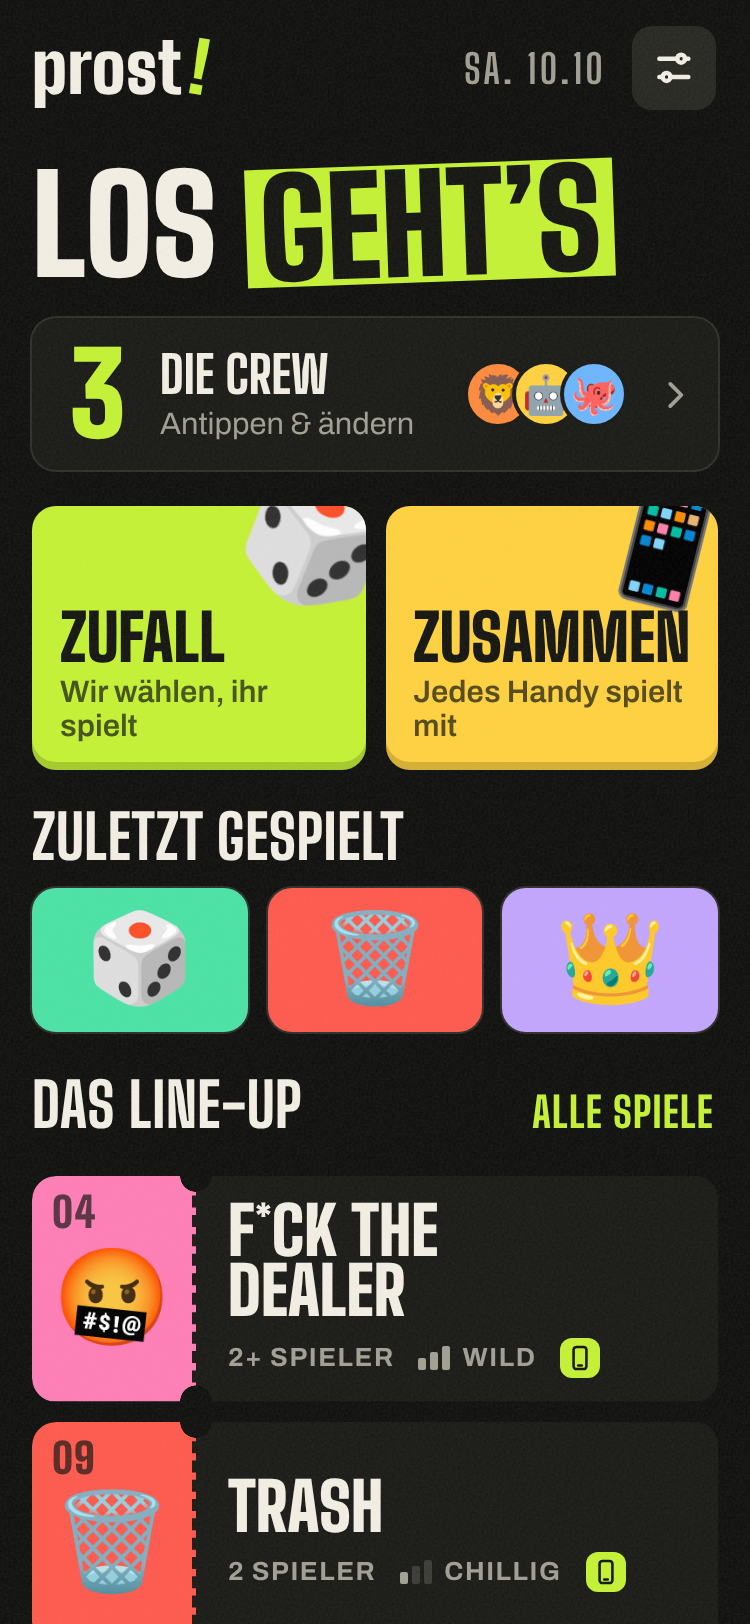
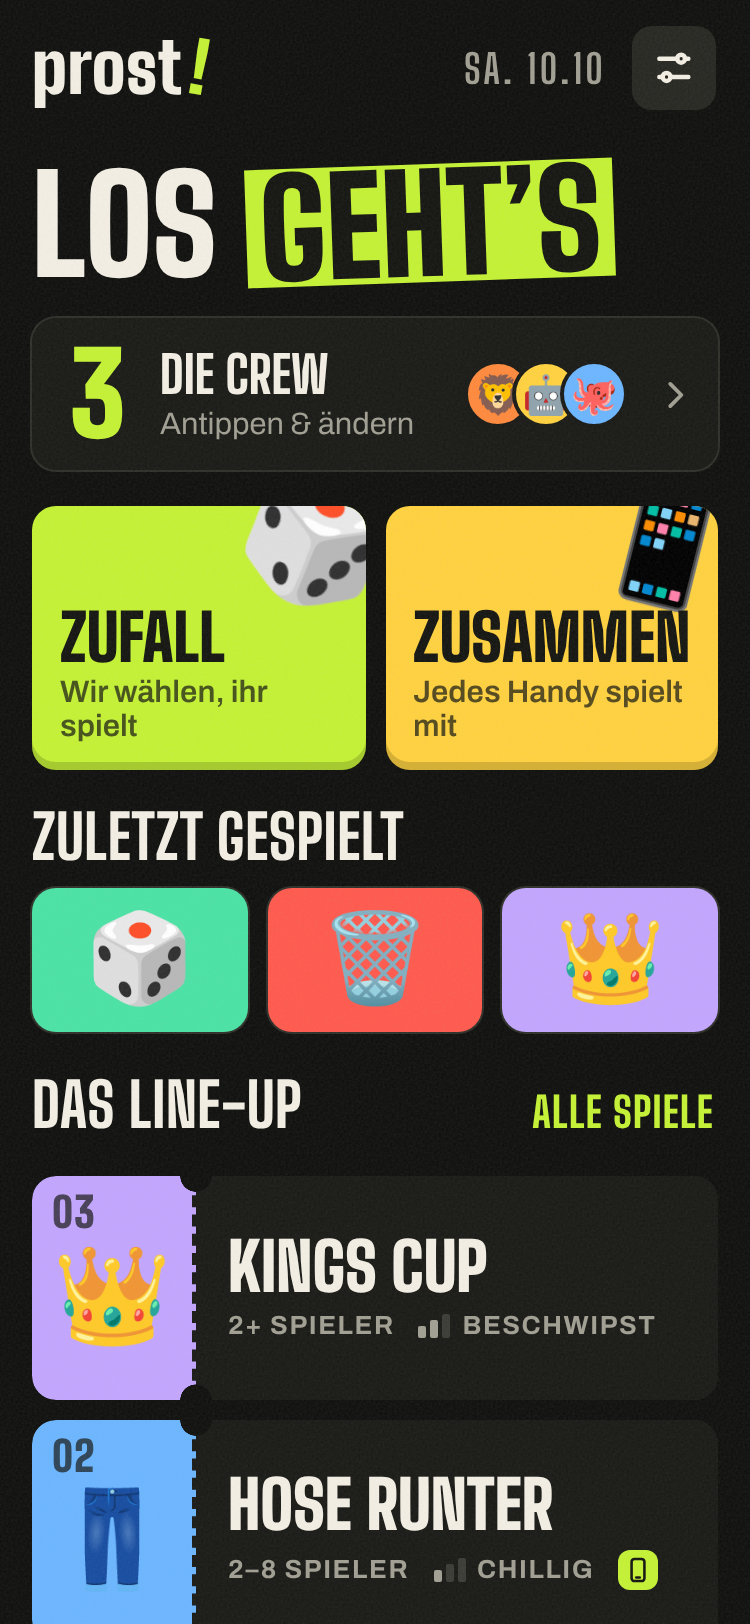
Home: pull down to deal a new line-up, with the name hopping in lime while it refreshes
Only on the home screen, only from the very top and only for a mostly downward pull.

Claude-Session: https://claude.ai/code/session_012V2LcTTs5UNWAkt63McFeS

Changed region(s): [[0.0307, 0.7081, 0.276, 1.0], [0.3067, 0.7389, 0.8587, 0.8621], [0.3067, 0.8929, 0.8893, 0.9852]]

diff --git a/src/lib/pullToRefresh.ts b/src/lib/pullToRefresh.ts
@@ -1,0 +1,103 @@
+import { useEffect, useRef, useState } from 'react';
+import { buzz } from './fx';
+
+/** How far the page follows the finger, at most. */
+const MAX = 100;
+/** Pulled at least this far: let go to refresh. */
+const TRIGGER = 62;
+/** How far it stays down while refreshing. */
+const HOLD = 52;
+/** How long the refresh shows (the work runs halfway through). */
+const REFRESH_MS = 900;
+
+export type PullPhase = 'idle' | 'pull' | 'refresh';
+
+/**
+ * Pull down at the top of the page to refresh. Only follows a finger that starts with the page at
+ * the very top and moves mostly downwards (a sideways swipe is left to the phone).
+ */
+export function usePullToRefresh(onRefresh: () => void, enabled = true) {
+  const [offset, setOffset] = useState(0);
+  const [phase, setPhase] = useState<PullPhase>('idle');
+  const refresh = useRef(onRefresh);
+  refresh.current = onRefresh;
+
+  useEffect(() => {
+    if (!enabled) return;
+    let start: { x: number; y: number } | null = null;
+    let pulling = false;
+    let off = 0;
+    let busy = false;
+    let armed = false;
+    const timers: number[] = [];
+
+    const down = (e: TouchEvent) => {
+      if (busy || e.touches.length !== 1 || window.scrollY > 0) return;
+      start = { x: e.touches[0].clientX, y: e.touches[0].clientY };
+      pulling = false;
+    };
+    const move = (e: TouchEvent) => {
+      if (!start) return;
+      const dx = e.touches[0].clientX - start.x;
+      const dy = e.touches[0].clientY - start.y;
+      if (!pulling) {
+        if (dy < 8) {
+          if (dy < -4 || Math.abs(dx) > 8) start = null;
+          return;
+        }
+        if (Math.abs(dx) > dy) {
+          start = null;
+          return;
+        }
+        pulling = true;
+        armed = false;
+        setPhase('pull');
+      }
+      // The page itself must not scroll or bounce meanwhile.
+      if (e.cancelable) e.preventDefault();
+      off = Math.min(MAX, Math.max(0, dy - 8) * 0.5);
+      if (off >= TRIGGER !== armed) {
+        armed = off >= TRIGGER;
+        if (armed) buzz(8);
+      }
+      setOffset(off);
+    };
+    const up = () => {
+      if (!start) return;
+      start = null;
+      if (!pulling) return;
+      pulling = false;
+      if (off >= TRIGGER) {
+        busy = true;
+        setPhase('refresh');
+        setOffset(HOLD);
+        timers.push(window.setTimeout(() => refresh.current(), REFRESH_MS / 2));
+        timers.push(
+          window.setTimeout(() => {
+            setPhase('idle');
+            setOffset(0);
+            busy = false;
+          }, REFRESH_MS),
+        );
+      } else {
+        setPhase('idle');
+        setOffset(0);
+      }
+      off = 0;
+    };
+
+    window.addEventListener('touchstart', down, { passive: true });
+    window.addEventListener('touchmove', move, { passive: false });
+    window.addEventListener('touchend', up);
+    window.addEventListener('touchcancel', up);
+    return () => {
+      window.removeEventListener('touchstart', down);
+      window.removeEventListener('touchmove', move);
+      window.removeEventListener('touchend', up);
+      window.removeEventListener('touchcancel', up);
+      timers.forEach((id) => window.clearTimeout(id));
+    };
+  }, [enabled]);
+
+  return { offset, phase, progress: Math.min(1, offset / TRIGGER) };
+}

diff --git a/src/screens/Home.tsx b/src/screens/Home.tsx
@@ -12,6 +12,7 @@ import { headlineFor } from '../lib/headline';
 import { pick } from '../lib/random';
 import { recentGames } from '../lib/recent';
 import { lineup } from '../lib/lineup';
+import { usePullToRefresh } from '../lib/pullToRefresh';
 import { navigate, paths } from '../lib/router';
 import { useRoom } from '../net/RoomProvider';
 import { useApp } from '../state/AppState';
@@ -61,12 +62,23 @@ export default function Home() {
   // The last three games played on this phone, newest first.
   const [recent] = useState(() => recentGames().map(findGame).filter((g): g is GameDefinition => !!g));
 
-  // A few playable games, drawn at random every few hours.
-  const [featured] = useState(() =>
-    lineup(GAMES.filter((g) => g.component || g.online).map((g) => g.id))
+  // A few playable games, drawn at random every few hours, or right away when home is pulled down.
+  const drawLineup = (fresh = false) =>
+    lineup(
+      GAMES.filter((g) => g.component || g.online).map((g) => g.id),
+      undefined,
+      undefined,
+      fresh,
+    )
       .map(findGame)
-      .filter((g): g is GameDefinition => !!g),
-  );
+      .filter((g): g is GameDefinition => !!g);
+  const [featured, setFeatured] = useState(() => drawLineup());
+  const [deal, setDeal] = useState(0);
+  const pull = usePullToRefresh(() => {
+    setFeatured(drawLineup(true));
+    setDeal((n) => n + 1);
+    sfx.pop();
+  }, !rolling);
 
   // "Fri 09.10" / "Fr. 09.10"
   const date = new Date()
@@ -77,6 +89,20 @@ export default function Home() {
 
   return (
     <main className="screen home">
+      {/* Pull to refresh: the name, in lime, comes down with the finger and hops while it refreshes. */}
+      <div
+        className={`ptr ${pull.phase}`}
+        style={{ height: pull.offset, '--p': pull.progress } as CSSProperties}
+        aria-hidden
+      >
+        <span className="ptr-logo">
+          {'prost!'.split('').map((c, i) => (
+            <span key={i} style={{ '--i': i } as CSSProperties}>
+              {c}
+            </span>
+          ))}
+        </span>
+      </div>
       <header className="home-header">
         <Logo />
         <span className="home-date">{date}</span>
@@ -159,7 +185,7 @@ export default function Home() {
             {t('All games')}
           </button>
         </div>
-        <div className="ticket-list">
+        <div className={`ticket-list${deal ? ' dealt' : ''}`} key={deal}>
           {featured.map((g) => (
             <GameCard key={g.id} game={g} tagline={false} onOpen={() => navigate(paths.game(g.id))} />
           ))}

diff --git a/src/styles/global.css b/src/styles/global.css
@@ -523,6 +523,74 @@ h3 {
 
 /* ---------- Home ---------- */
 
+/* Pull to refresh on home: the name comes down with the finger, in lime, and hops while refreshing. */
+.ptr {
+  flex: none;
+  height: 0;
+  margin-bottom: -18px; /* takes no room (nor a gap) while it's closed */
+  display: grid;
+  place-items: center;
+  overflow: hidden;
+  pointer-events: none;
+}
+
+.ptr:not(.pull) {
+  transition: height 0.34s var(--spring);
+}
+
+.ptr-logo {
+  display: inline-flex;
+  font-family: var(--font-display);
+  font-weight: 900;
+  font-size: 1.6rem;
+  line-height: 1;
+  color: var(--accent-ink);
+  opacity: var(--p, 0);
+  transform: scale(calc(0.6 + 0.4 * var(--p, 0))) rotate(calc((1 - var(--p, 0)) * -14deg));
+}
+
+.ptr.refresh .ptr-logo {
+  opacity: 1;
+  transform: none;
+  transition: transform 0.2s var(--spring);
+}
+
+.ptr-logo span {
+  display: inline-block;
+}
+
+.ptr.refresh .ptr-logo span {
+  animation: ptr-hop 0.42s ease-in-out infinite alternate;
+  animation-delay: calc(var(--i) * 60ms);
+}
+
+@keyframes ptr-hop {
+  to {
+    transform: translateY(-7px);
+  }
+}
+
+/* A fresh line-up deals in one ticket after the other. */
+.ticket-list.dealt > * {
+  animation: rise 0.45s var(--spring) backwards;
+}
+
+.ticket-list.dealt > :nth-child(2) {
+  animation-delay: 60ms;
+}
+
+.ticket-list.dealt > :nth-child(3) {
+  animation-delay: 120ms;
+}
+
+.ticket-list.dealt > :nth-child(4) {
+  animation-delay: 180ms;
+}
+
+.ticket-list.dealt > :nth-child(5) {
+  animation-delay: 240ms;
+}
+
 .home-header {
   display: flex;
   align-items: center;

diff --git a/src/lib/lineup.ts b/src/lib/lineup.ts
@@ -8,21 +8,22 @@ const FRESH_MS = 6 * 60 * 60 * 1000;
 
 /**
  * The games on the home screen: a random handful of the playable ones, kept for a few hours so
- * the list doesn't jump around every time the app opens, then drawn anew.
+ * the list doesn't jump around every time the app opens, then drawn anew (or right away with
+ * `fresh`, when home is pulled down).
  */
-export function lineup(playable: string[], now = Date.now(), rand: () => number = Math.random): string[] {
+export function lineup(playable: string[], now = Date.now(), rand: () => number = Math.random, fresh = false): string[] {
   const saved = load<{ at: number; ids: string[] } | null>(KEY, null);
   const ids = saved?.ids.filter((id) => playable.includes(id)) ?? [];
   const want = Math.min(LINEUP_SIZE, playable.length);
-  if (saved && now - saved.at < FRESH_MS && now >= saved.at && ids.length === want) return ids;
+  if (!fresh && saved && now - saved.at < FRESH_MS && now >= saved.at && ids.length === want) return ids;
   // Draw anew, preferring games that weren't in the last line-up.
   const shuffled = (list: string[]) =>
     list
       .map((id) => ({ id, r: rand() }))
       .sort((a, b) => a.r - b.r)
       .map((x) => x.id);
-  const fresh = shuffled(playable.filter((id) => !ids.includes(id)));
-  const next = [...fresh, ...shuffled(ids)].slice(0, want);
+  const unseen = shuffled(playable.filter((id) => !ids.includes(id)));
+  const next = [...unseen, ...shuffled(ids)].slice(0, want);
   save(KEY, { at: now, ids: next });
   return next;
 }

diff --git a/src/lib/lineup.test.ts b/src/lib/lineup.test.ts
@@ -43,6 +43,14 @@ describe('line-up', () => {
     expect(next).not.toContain(first[0]);
   });
 
+  it('draws anew right away when asked (pulled down)', () => {
+    const first = lineup(GAMES, 0);
+    const next = lineup(GAMES, 1, Math.random, true);
+    expect(GAMES.filter((id) => !first.includes(id)).every((id) => next.includes(id))).toBe(true);
+    // …and that's the line-up from now on.
+    expect(lineup(GAMES, 2)).toEqual(next);
+  });
+
   it('copes with fewer games than places', () => {
     expect(lineup(['a', 'b'], 0).sort()).toEqual(['a', 'b']);
   });
